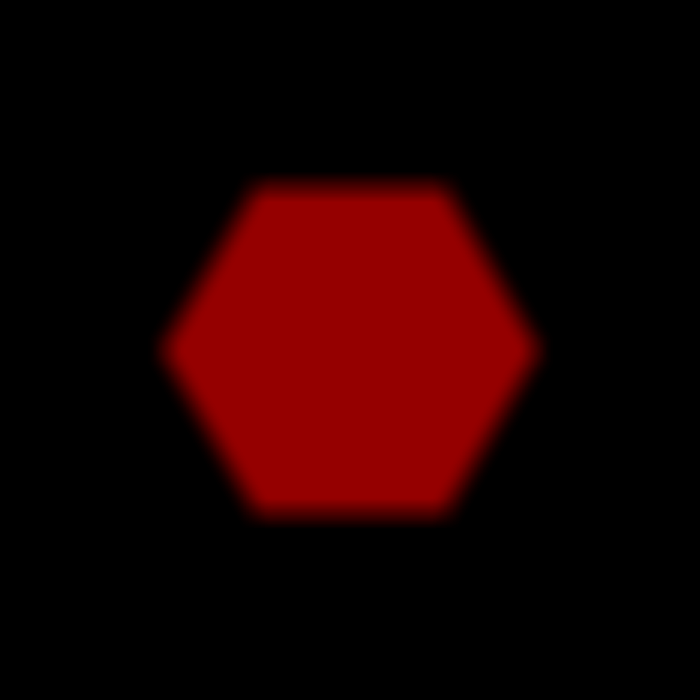
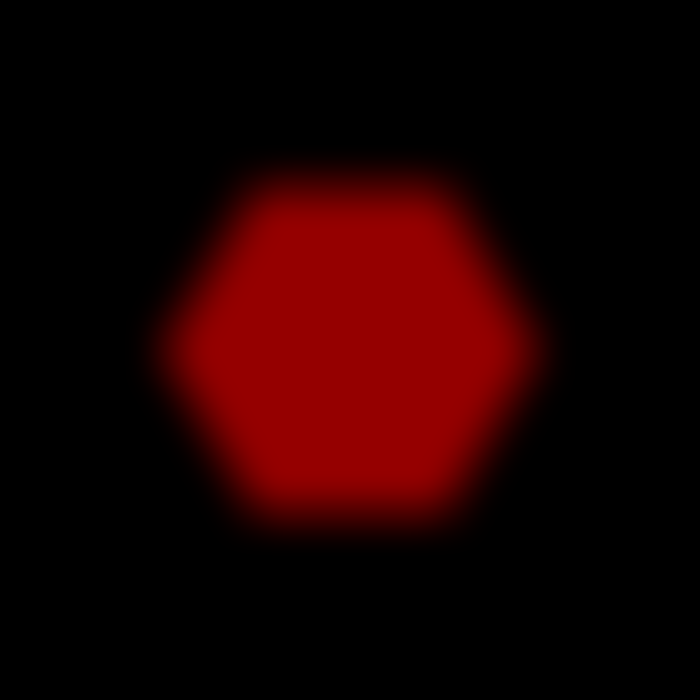
ok

Changed region(s): [[0.21, 0.24, 0.78, 0.78]]

diff --git a/code.js b/code.js
@@ -60,7 +60,13 @@ function draw() {
     ctx.globalAlpha = 1;
     addArtifact("iris" + iristype + ".png", docWidth / 2 + 0.5 * centeroffset[0], docHeight / 2 + 0.5 * centeroffset[1], docHeight / 10, docHeight / 10);
     ctx.globalAlpha = 0.8;
-    addArtifact("iris" + iristype + ".png", docWidth / 2 + 1.5 * centeroffset[0], docHeight / 2 + 1.5 * centeroffset[1], docHeight / 8, docHeight / 8);
+    addArtifact("iris" + iristype + ".png", docWidth / 2 + 1.25 * centeroffset[0], docHeight / 2 + 1.25 * centeroffset[1], docHeight / 20, docHeight / 20);
+    ctx.globalAlpha = 0.4;
+    addArtifact("iris" + iristype + ".png", docWidth / 2 + 1.5 * centeroffset[0], docHeight / 2 + 1.5 * centeroffset[1], docHeight / 10, docHeight / 10);
+    ctx.globalAlpha = 0.2;
+    addArtifact("iris" + iristype + ".png", docWidth / 2 + 1.75 * centeroffset[0], docHeight / 2 + 1.75 * centeroffset[1], docHeight / 5, docHeight / 5);
+    ctx.globalAlpha = 0.1;
+    addArtifact("iris" + iristype + ".png", docWidth / 2 + 2 * centeroffset[0], docHeight / 2 + 2 * centeroffset[1], docHeight / 2.5, docHeight / 2.5);
     ctx.globalAlpha = 1;
 }
 
